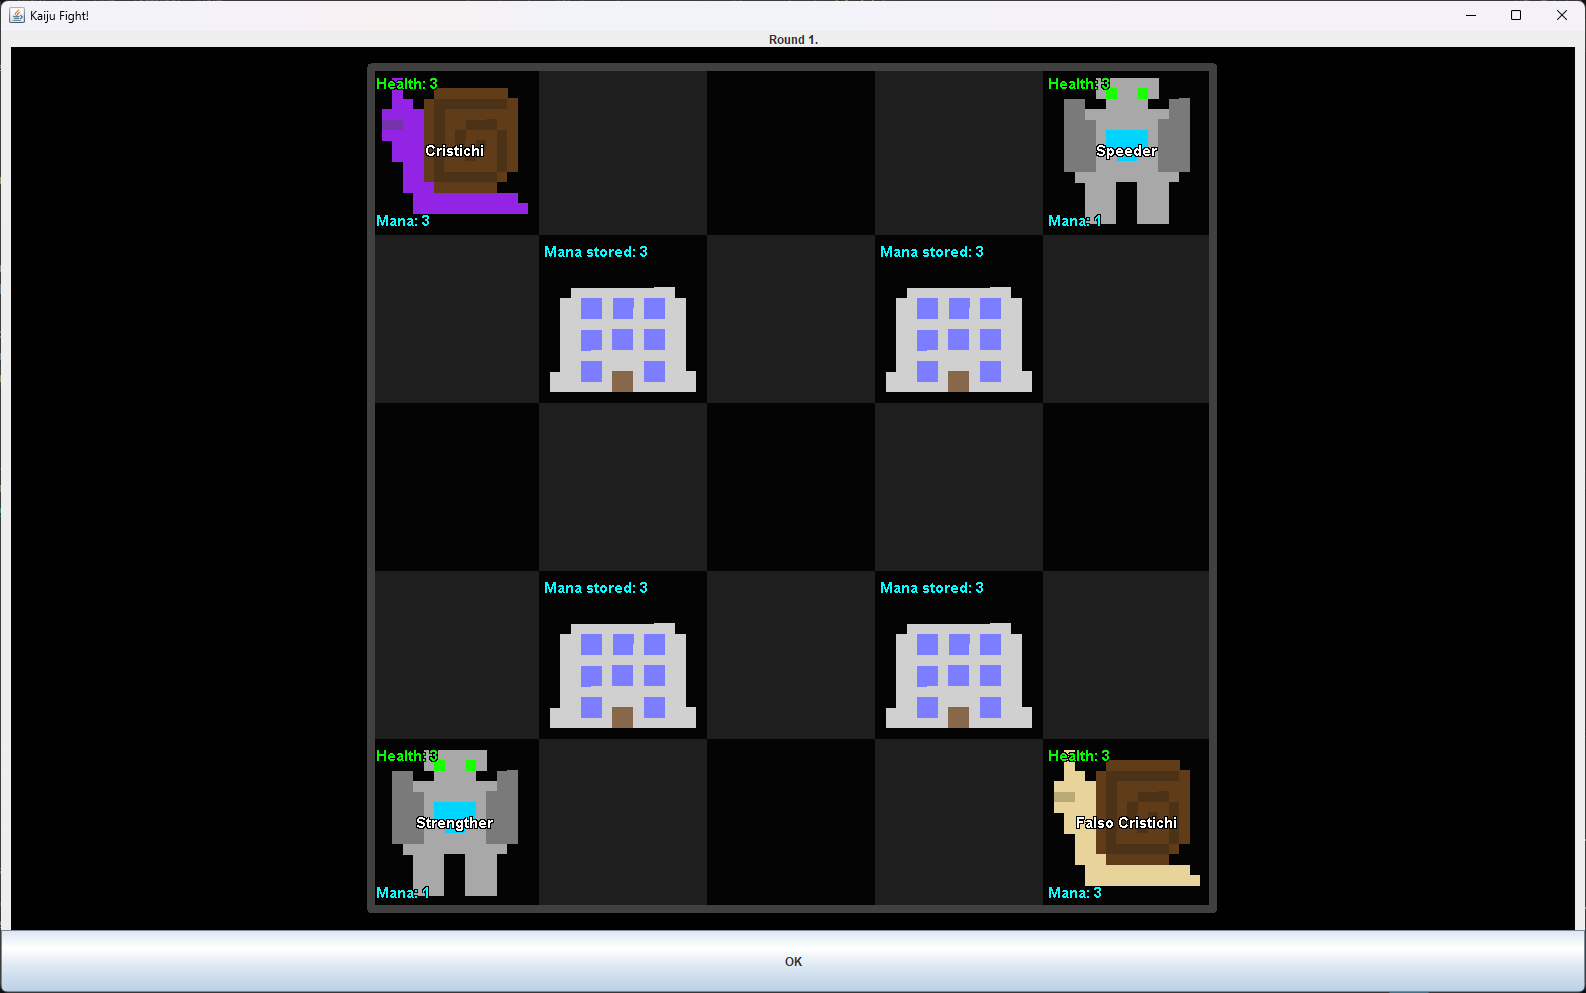
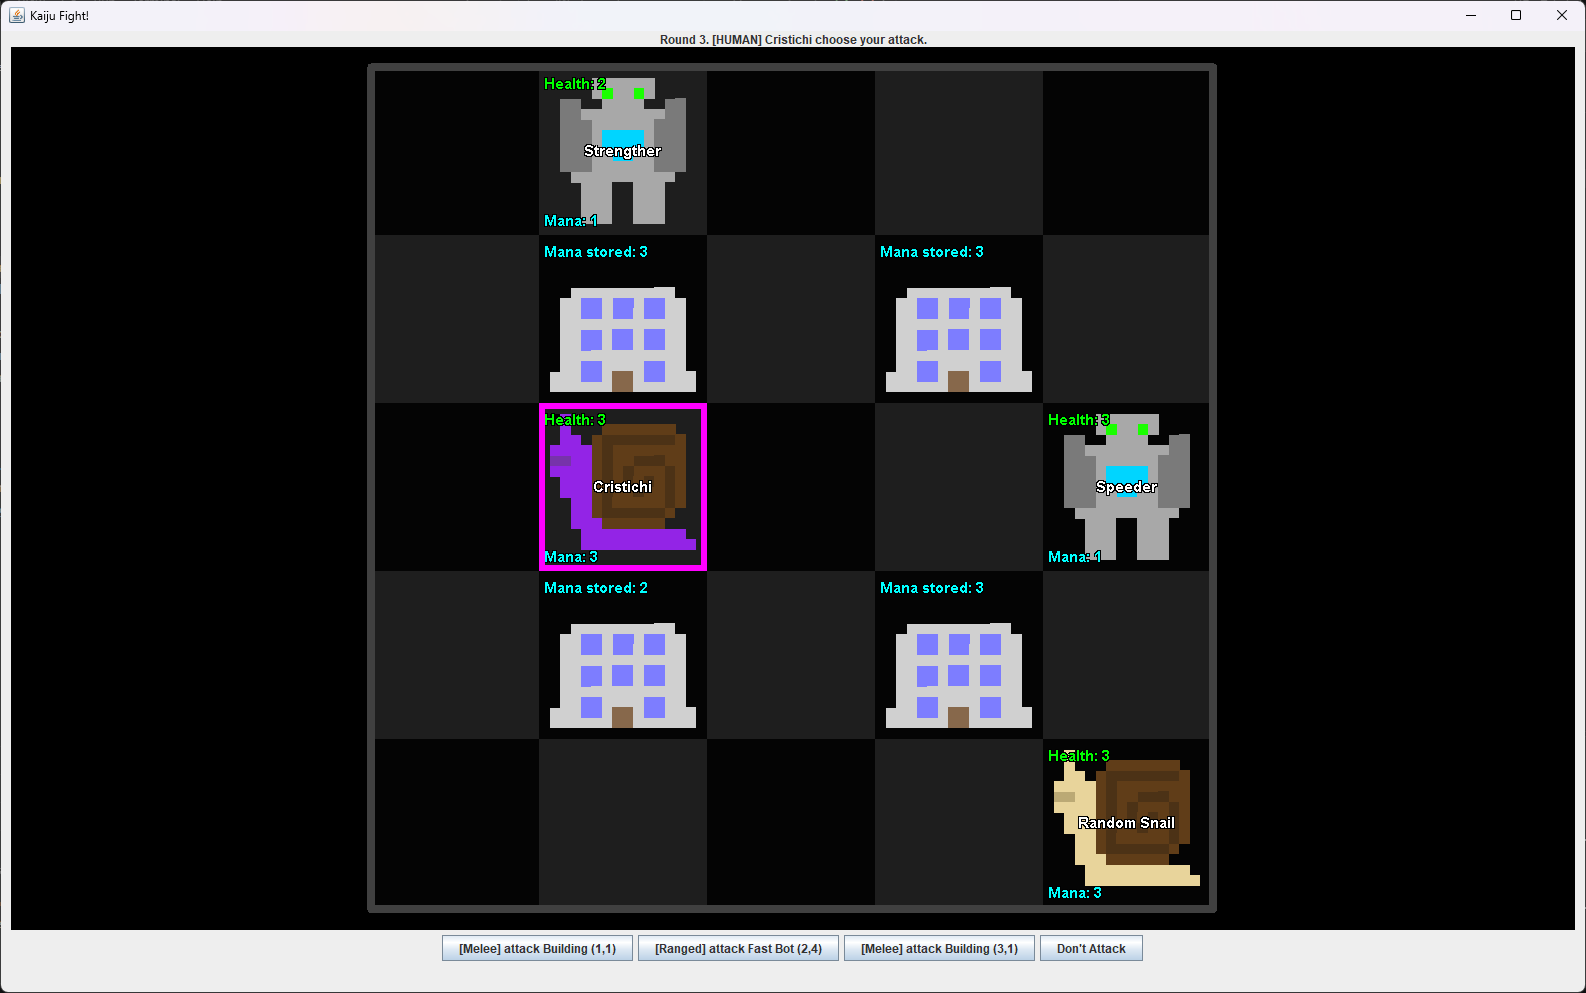
Better top messages at the start of rounds

diff --git a/src/main/java/es/cristichi/kaiju/game/Game.java b/src/main/java/es/cristichi/kaiju/game/Game.java
@@ -75,17 +75,17 @@ public class Game {
     private int round = 0;
     private boolean gameLoop(BoardComponent watcher) throws InterruptedException{
         round++;
-        watcher.getWindow().updateTopText("Round "+round+".");
-        watcher.getWindow().showAcceptControls();
-        inputSem.acquire();
-        input = null;
         
         for (String kaijuName : kaijuOrder) {
             currentTurn = kaijuName;
             Kaiju kaiju = kaijus.get(kaijuName);
             Position pos = board.getPosition(kaiju);
-
+        
             watcher.getWindow().updateTopText("Round "+round+". Turn for ["+(kaiju.isCpu()?"CPU] ":"HUMAN] ")+kaiju.getName());
+            watcher.getWindow().showAcceptControls();
+            inputSem.acquire();
+            input = null;
+
 
             if (kaiju.isCpu()){
                 // CPU movement
@@ -232,11 +232,6 @@ public class Game {
         }
 
         watcher.updateBoard();
-        
-        watcher.getWindow().updateTopText("Round "+round+". Ended. Waiting to continue.");
-        watcher.getWindow().showAcceptControls();
-        inputSem.acquire();
-        input = null;
 
         return round<30;
     }
